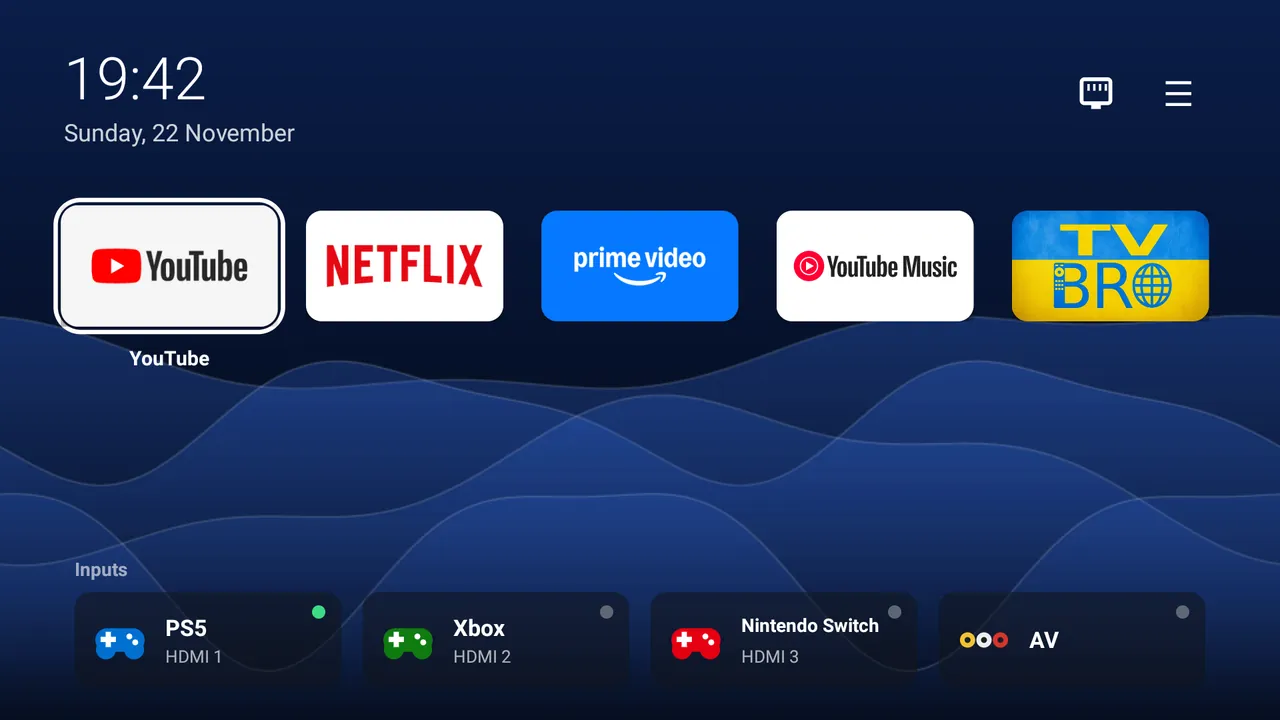
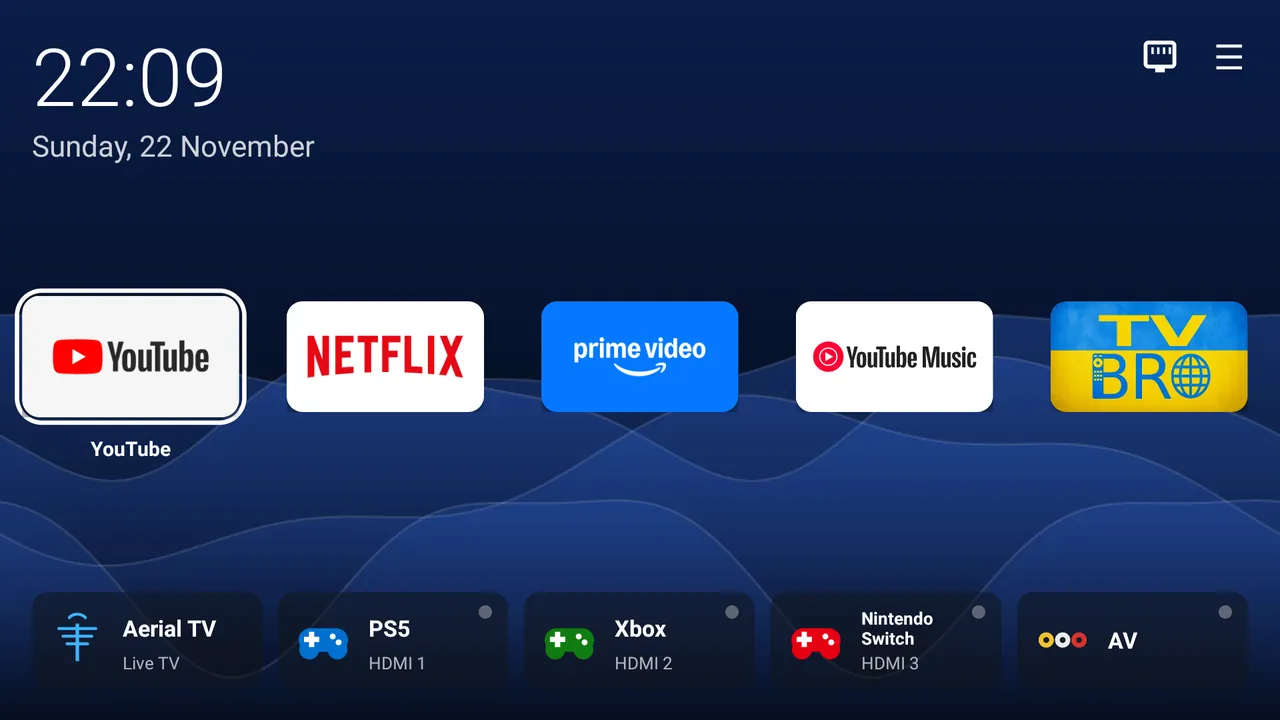
feat(launcher): Aerial TV card and tighter home layout (#42)

diff --git a/apps/home/src/io/github/yohannaftali/axshome/HomeActivity.java b/apps/home/src/io/github/yohannaftali/axshome/HomeActivity.java
@@ -138,7 +138,8 @@ public final class HomeActivity extends Activity {
 
         content = new LinearLayout(this);
         content.setOrientation(LinearLayout.VERTICAL);
-        content.setPadding(dp(48), dp(28), dp(48), dp(24));
+        // Same margin on every edge, like the bottom, so the corners and the inputs get the room.
+        content.setPadding(dp(24), dp(24), dp(24), dp(24));
         content.setClipToPadding(false);
         content.setClipChildren(false);
         root.addView(content, new FrameLayout.LayoutParams(
@@ -150,9 +151,10 @@ public final class HomeActivity extends Activity {
         grid.setOrientation(LinearLayout.VERTICAL);
         grid.setClipChildren(false);
         grid.setClipToPadding(false);
+        // The apps row sits in the middle of the space between the top bar and the inputs.
+        grid.setGravity(Gravity.CENTER_VERTICAL);
         LinearLayout.LayoutParams gridLp = new LinearLayout.LayoutParams(
                 ViewGroup.LayoutParams.MATCH_PARENT, 0, 1f);
-        gridLp.topMargin = dp(28);
         content.addView(grid, gridLp);
 
         inputBar = new LinearLayout(this);
@@ -175,19 +177,21 @@ public final class HomeActivity extends Activity {
     private View topBar() {
         LinearLayout bar = new LinearLayout(this);
         bar.setOrientation(LinearLayout.HORIZONTAL);
-        bar.setGravity(Gravity.CENTER_VERTICAL);
+        bar.setGravity(Gravity.TOP);
+        bar.setClipChildren(false);
 
         LinearLayout when = new LinearLayout(this);
         when.setOrientation(LinearLayout.VERTICAL);
         clock = new TextClock(this);
         clock.setTextColor(Color.WHITE);
-        clock.setTextSize(TypedValue.COMPLEX_UNIT_SP, 44);
+        clock.setTextSize(TypedValue.COMPLEX_UNIT_SP, 60);
         clock.setTypeface(Typeface.create("sans-serif-light", Typeface.NORMAL));
+        clock.setIncludeFontPadding(false);
         when.addView(clock);
         date = new TextClock(this);
         applyClockFormats();
         date.setTextColor(0xCCFFFFFF);
-        date.setTextSize(TypedValue.COMPLEX_UNIT_SP, 18);
+        date.setTextSize(TypedValue.COMPLEX_UNIT_SP, 22);
         when.addView(date);
         bar.addView(when, new LinearLayout.LayoutParams(0, ViewGroup.LayoutParams.WRAP_CONTENT, 1f));
 
@@ -202,10 +206,15 @@ public final class HomeActivity extends Activity {
         menuButton.setBackground(focusBg(0x00000000, 24));
         menuButton.setOnClickListener(v -> showMenu());
         net = new NetIcon(this);
+        // ☰'s 56 dp focus box has room around the glyph: pull it into the corner so the
+        // glyph, not the box, lines up with the page margin; the network icon centres on it.
         LinearLayout.LayoutParams netLp = new LinearLayout.LayoutParams(dp(36), dp(36));
-        netLp.rightMargin = dp(16);
+        netLp.rightMargin = dp(6);
         bar.addView(net, netLp);
-        bar.addView(menuButton, new LinearLayout.LayoutParams(dp(56), dp(56)));
+        LinearLayout.LayoutParams menuLp = new LinearLayout.LayoutParams(dp(56), dp(56));
+        menuLp.topMargin = -dp(10);
+        menuLp.rightMargin = -dp(14);
+        bar.addView(menuButton, menuLp);
         return bar;
     }
 
@@ -527,8 +536,9 @@ public final class HomeActivity extends Activity {
         scroll.setPadding(dp(SCROLL_BLEED), dp(14), dp(SCROLL_BLEED), dp(14));
         LinearLayout.LayoutParams scrollLp = new LinearLayout.LayoutParams(
                 ViewGroup.LayoutParams.MATCH_PARENT, ViewGroup.LayoutParams.WRAP_CONTENT);
-        scrollLp.leftMargin = -dp(SCROLL_BLEED);
-        scrollLp.rightMargin = -dp(SCROLL_BLEED);
+        // Also out by the ring gap, so the tiles themselves (not their focus rings) sit on the page margin.
+        scrollLp.leftMargin = -dp(SCROLL_BLEED + RING_GAP);
+        scrollLp.rightMargin = -dp(SCROLL_BLEED + RING_GAP);
         grid.addView(scroll, scrollLp);
 
         LinearLayout row = new LinearLayout(this);
@@ -646,19 +656,16 @@ public final class HomeActivity extends Activity {
     private void buildInputs() {
         inputBar.removeAllViews();
         dots.clear();
-        TextView title = new TextView(this);
-        title.setText("Inputs");
-        title.setTextColor(0x99FFFFFF);
-        title.setTextSize(TypedValue.COMPLEX_UNIT_SP, 14);
-        title.setTypeface(Typeface.DEFAULT_BOLD);
-        title.setPadding(dp(8), 0, 0, dp(8));
-        inputBar.addView(title);
-
         LinearLayout row = new LinearLayout(this);
         row.setOrientation(LinearLayout.HORIZONTAL);
         row.setClipChildren(false);
-        inputBar.addView(row, new LinearLayout.LayoutParams(
-                ViewGroup.LayoutParams.MATCH_PARENT, ViewGroup.LayoutParams.WRAP_CONTENT));
+        // Cards keep 6 dp on each side (12 dp gaps); pulling the row out by 6 dp puts the outer
+        // cards on the page margin, in line with the clock, the app tiles and the bottom margin.
+        LinearLayout.LayoutParams rowLp = new LinearLayout.LayoutParams(
+                ViewGroup.LayoutParams.MATCH_PARENT, ViewGroup.LayoutParams.WRAP_CONTENT);
+        rowLp.leftMargin = -dp(6);
+        rowLp.rightMargin = -dp(6);
+        inputBar.addView(row, rowLp);
         for (String[] e : inputs) {
             String label = field(e, 1);
             String port = field(e, 2);
@@ -678,7 +685,7 @@ public final class HomeActivity extends Activity {
         card.setBackground(focusBg(0x8C10141C, 12));
         card.setContentDescription(label.isEmpty() ? port : label);
         LinearLayout.LayoutParams lp = new LinearLayout.LayoutParams(0, dp(72), 1f);
-        lp.setMargins(dp(8), 0, dp(8), 0);
+        lp.setMargins(dp(6), 0, dp(6), 0);
         card.setLayoutParams(lp);
 
         LinearLayout content = new LinearLayout(this);
@@ -689,26 +696,42 @@ public final class HomeActivity extends Activity {
         text.setOrientation(LinearLayout.VERTICAL);
         text.setPadding(dp(12), 0, dp(14), 0);
         TextView name = label(label.isEmpty() ? port : label, 17, Color.WHITE, true);
-        name.setMaxLines(1);
+        // Up to two lines in a fixed box: short names stay large, long ones ("Nintendo Switch")
+        // shrink onto two lines instead of being cut when five cards share the bar.
+        name.setMaxLines(2);
+        name.setGravity(Gravity.CENTER_VERTICAL);
         name.setAutoSizeTextTypeUniformWithConfiguration(11, 17, 1, TypedValue.COMPLEX_UNIT_SP);
-        text.addView(name, new LinearLayout.LayoutParams(ViewGroup.LayoutParams.MATCH_PARENT, dp(24)));
+        text.addView(name, new LinearLayout.LayoutParams(ViewGroup.LayoutParams.MATCH_PARENT, dp(34)));
         if (!label.isEmpty() && !port.isEmpty()) text.addView(label(port, 13, 0xAAFFFFFF, false));
         content.addView(text, new LinearLayout.LayoutParams(0, ViewGroup.LayoutParams.WRAP_CONTENT, 1f));
         card.addView(content, new FrameLayout.LayoutParams(
                 ViewGroup.LayoutParams.MATCH_PARENT, ViewGroup.LayoutParams.MATCH_PARENT));
 
-        View dot = new View(this);
-        paintDot(dot, inputState(id));
-        card.addView(dot, new FrameLayout.LayoutParams(dp(10), dp(10), Gravity.TOP | Gravity.END));
-        dots.put(id, dot);
+        // A tuner (aerial TV) cannot report an antenna signal like HDMI does, so it gets no dot.
+        boolean tuner = isTuner(id);
+        if (!tuner) {
+            View dot = new View(this);
+            paintDot(dot, inputState(id));
+            card.addView(dot, new FrameLayout.LayoutParams(dp(10), dp(10), Gravity.TOP | Gravity.END));
+            dots.put(id, dot);
+        }
 
         card.setOnFocusChangeListener((v, has) -> {
             float s = has ? 1.05f : 1f;
             v.animate().scaleX(s).scaleY(s).setDuration(90).start();
         });
-        Intent view = new Intent(Intent.ACTION_VIEW, TvContract.buildChannelUriForPassthroughInput(id));
+        // HDMI/AV: the passthrough "channel". Tuner: its channels, so Live TV plays the last one,
+        // or runs its channel scan the first time (no channels yet).
+        Intent view = new Intent(Intent.ACTION_VIEW, tuner
+                ? TvContract.buildChannelsUriForInput(id)
+                : TvContract.buildChannelUriForPassthroughInput(id));
         card.setOnClickListener(v -> launch(view));
         return card;
+    }
+
+    private boolean isTuner(String id) {
+        android.media.tv.TvInputInfo info = tvInputs == null ? null : tvInputs.getTvInputInfo(id);
+        return info != null && info.getType() == android.media.tv.TvInputInfo.TYPE_TUNER;
     }
 
     private int inputState(String id) {

diff --git a/apps/home/src/io/github/yohannaftali/axshome/IconView.java b/apps/home/src/io/github/yohannaftali/axshome/IconView.java
@@ -7,11 +7,12 @@ import android.graphics.Path;
 import android.graphics.RectF;
 import android.view.View;
 
-/** Original input icons drawn in code: gamepad, HDMI plug, AV (RCA) jacks. */
+/** Original input icons drawn in code: gamepad, HDMI plug, AV (RCA) jacks, aerial antenna. */
 final class IconView extends View {
     static final int GAMEPAD = 0;
     static final int HDMI = 1;
     static final int AV = 2;
+    static final int ANTENNA = 3;
 
     private final int type;
     private final int color;
@@ -29,6 +30,7 @@ final class IconView extends View {
         if ("gamepad".equals(s)) return GAMEPAD;
         if ("av".equals(s)) return AV;
         if ("hdmi".equals(s)) return HDMI;
+        if ("antenna".equals(s)) return ANTENNA;
         return port.toUpperCase().startsWith("HDMI") ? HDMI : AV;
     }
 
@@ -69,6 +71,24 @@ final class IconView extends View {
                     float x = w * (0.27f + i * 0.115f);
                     c.drawRect(x, h * 0.44f, x + w * 0.05f, h * 0.52f, p);
                 }
+                break;
+            }
+            case ANTENNA: {
+                // A roof antenna: mast, three cross-bars, and a small TV-wave arc.
+                p.setColor(color);
+                float mx = w * 0.5f;
+                c.drawRect(mx - s * 0.03f, h * 0.22f, mx + s * 0.03f, h * 0.86f, p);
+                for (int i = 0; i < 3; i++) {
+                    float y = h * (0.28f + i * 0.13f);
+                    float half = s * (0.34f - i * 0.07f);
+                    c.drawRoundRect(mx - half, y, mx + half, y + s * 0.05f, s * 0.03f, s * 0.03f, p);
+                }
+                p.setStyle(Paint.Style.STROKE);
+                p.setStrokeWidth(s * 0.05f);
+                p.setStrokeCap(Paint.Cap.ROUND);
+                r.set(mx - s * 0.16f, h * 0.06f, mx + s * 0.16f, h * 0.30f);
+                c.drawArc(r, 210, 120, false, p);
+                p.setStyle(Paint.Style.FILL);
                 break;
             }
             default: {

diff --git a/README.md b/README.md
@@ -19,8 +19,10 @@ access, and it opens in about half a second.
   spread evenly in one row that scrolls sideways when you add more. The
   selected app zooms in with a ring around it, console-style. Long-press OK
   to rearrange them on the TV.
-- **Inputs**: PS5 / HDMI 1, Xbox / HDMI 2, Nintendo Switch / HDMI 3, AV. OK
-  switches input; the dot turns green while the input is sending a picture.
+- **Inputs**: Aerial TV (antenna, opens Live TV), PS5 / HDMI 1, Xbox / HDMI 2,
+  Nintendo Switch / HDMI 3, AV. OK switches input; the dot turns green while an
+  HDMI/AV input is sending a picture. Names, icons and colours are one line
+  each in `home.conf`.
 - **Top right**: network status (Ethernet or Wi-Fi) and the ☰ menu (Settings,
   Play Store, Home settings, System monitor, Phone remote, All apps, Reset
   app order).
@@ -190,7 +192,7 @@ recover if something goes wrong.
 
 | Change | What it does |
 |---|---|
-| [`changes/1-fast-home`](changes/1-fast-home/README.md) | **AXS Home**: 46 KB home screen with clock (12/24-hour), network status, wallpapers (4 built-in or your own image/GIF/video), rearrangeable apps row, inputs bar at the bottom with connection dots (PS5, Xbox, Switch, AV), ☰ menu and animated waves; layout in [`apps/home/config/home.conf`](apps/home/config/home.conf) |
+| [`changes/1-fast-home`](changes/1-fast-home/README.md) | **AXS Home**: 46 KB home screen with clock (12/24-hour), network status, wallpapers (4 built-in or your own image/GIF/video), rearrangeable apps row, inputs bar at the bottom with connection dots (Aerial TV, PS5, Xbox, Switch, AV), ☰ menu and animated waves; layout in [`apps/home/config/home.conf`](apps/home/config/home.conf) |
 | [`changes/2-debloat`](changes/2-debloat/README.md) | Disables 14 ad, tracking and unused preinstalled apps (needs #1); screensaver to built-in Colors |
 | [`changes/3-animations`](changes/3-animations/README.md) | System animations at 0.5x |
 | [`changes/15-tv-bro`](changes/15-tv-bro/README.md) | TV Bro browser, installed from its verified GitHub release |

diff --git a/CHANGE_HISTORY.md b/CHANGE_HISTORY.md
@@ -3,6 +3,15 @@
 Newest first. Never include the TV IP, Netflix ESN, serial, MACs or account
 names — see `AGENTS.md` → Private data.
 
+## [2026-11-22] — feat(launcher): Aerial TV card and tighter home layout (#42)
+- Issue #42
+- Files: apps/home/src/.../HomeActivity.java (tuner card opens TvContract.buildChannelsUriForInput, no dot for tuners; two-line auto-sized card names; equal 24 dp page margins; clock 60 sp / date 22 sp without font padding; ☰ and network icon in the top-right corner; apps row vertically centred; tiles and input cards aligned to the page margin; "Inputs" label removed; 12 dp card gaps), IconView.java (antenna icon), apps/home/config/home.conf (Aerial TV line, documented), README.md, changes/1-fast-home/README.md, docs/screenshots/home-{waves,orbit,pop,bloom}.webp
+- Found on the TV: the tuner input is com.droidlogic.tvinput/.services.ADTVInputService/HW16; with no channels Live TV starts a channel scan (twice during testing, both stopped; one had been started by Live TV itself when the phone remote opened it during #40)
+- Owner's layout requests during the work: narrower side margins, top bar in the corners, bigger clock/date, centred apps row, inputs aligned with apps and bottom margin, no "Inputs" label, wider cards
+- Verified on TV: Aerial TV card opens Live TV on the tuner (channel scan as there are no channels), HDMI 1 still switches, all five names fit, ☰ focus ring inside the screen, cold start 601–637 ms, no crash, no INTERNET, check.sh 0
+- Not verified: reboot; a TV with scanned channels (last-channel playback)
+- TV state left: applied
+
 ## [2026-11-22] — feat(launcher): Aerial TV card before HDMI 1 in the inputs bar
 - Issue #42 created on GitHub
 - Scope: launcher

diff --git a/changes/1-fast-home/README.md b/changes/1-fast-home/README.md
@@ -24,8 +24,17 @@ Layout since #18:
   reboots. ☰ → *Reset app order* goes back to the `home.conf` order.
 - **Inputs bar** (bottom): OK switches to that input; DOWN from the apps
   reaches it. A labelled input shows the label and its port; an unlabelled one
-  only the port. Icons are original drawings (gamepad, HDMI plug, AV jacks),
-  not console logos.
+  only the port. Icons are original drawings (gamepad, HDMI plug, AV jacks,
+  antenna), not console logos. Long names shrink onto two lines.
+- **Aerial TV** (first card): the TV's tuner input
+  (`com.droidlogic.tvinput/.services.ADTVInputService/HW16`, analog + digital).
+  OK opens Live TV on that input's channels, so it plays the last channel; with
+  no channels scanned yet Live TV starts its channel scan (stop it with BACK →
+  Stop). It has no dot: an antenna signal cannot be read like HDMI's. No
+  antenna? Delete its `input|Aerial TV|…` line in `home.conf` and re-run
+  `apply.sh`.
+- **Layout**: the same 24 dp margin on every edge; clock and date top left,
+  network and ☰ top right, the apps row centred between them and the inputs.
 - **Connection dot**: green while the input is sending a picture
   (`INPUT_STATE_CONNECTED`), grey otherwise; it updates live. This TV reports
   "standby" for every input, even an empty AV port, so standby counts as grey.

diff --git a/AGENTS.md b/AGENTS.md
@@ -134,4 +134,4 @@ Rules:
 | #36 | feat(launcher): console-style Home settings page with frosted panel, categories and wallpaper previews | closed | 2026-11-22 |
 | #38 | feat(launcher): System monitor page with live CPU, RAM, storage and a top-style app list | closed | 2026-11-22 |
 | #40 | feat(apps): Phone remote — QR code opens a browser remote and keyboard served by the TV | closed | 2026-11-22 |
-| #42 | feat(launcher): Aerial TV card before HDMI 1 in the inputs bar | open | 2026-11-22 |
+| #42 | feat(launcher): Aerial TV card before HDMI 1 in the inputs bar | closed | 2026-11-22 |
